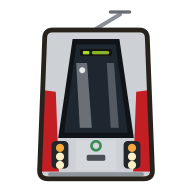
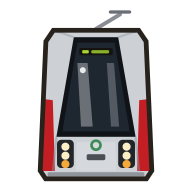
Face fixes: recognizable classic 15T/14T redrawn from photos, chibi 14T/KT8D5 red side panels removed
- classic/15t: body now tapers toward the roof (the raked nose), one huge
  curved black windscreen bulging to the body edges so the red reads as a
  brow/cap thinning down the A-pillars; silver mid-band with round headlight
  clusters and red bumper with white DRLs kept and tightened.
- classic/14t: angular faceted wedge silhouette (chamfered corners, no soft
  rounds), silver-dominant nose with slim red flank slivers, taller
  downward-widening black windscreen trapezoid, roof/skirt facet creases,
  amber indicators moved below the paired lenses per the reference photo.
- chibi/14t: removed the fictional red side panels; all-silver angular nose
  like the real Porsche-designed front.
- chibi/kt8d5: removed the red patches on the peeking articulated sections;
  they stay plain white with accordion pleats.

Sprites regenerated for the four changed faces only.

Changed region(s): [[0.1875, 0.125, 0.8125, 0.9688], [0.625, 0.375, 0.6562, 0.4375]]

diff --git a/src/components/tram/faces/packs/classic/14t.tsx b/src/components/tram/faces/packs/classic/14t.tsx
@@ -1,9 +1,10 @@
-// Škoda 14T "Elektra" — the Porsche-designed WEDGE. Angular SILVER cab, tall
-// flat raked windscreen in a black frame that WIDENS DOWNWARD (trapezoid),
-// green LED route display up in the glass, vertical clusters of small round
-// lens lights recessed in dark niches low at each corner (amber on top), red
-// body flanks peeking past the silver nose, single-arm pantograph.
-// Expression: sharp, faceted, sporty.
+// Škoda 14T "Elektra" — the Porsche-designed WEDGE. Faceted angular silhouette
+// (straight chamfered corners, no soft rounds), SILVER-dominant cab, tall flat
+// raked windscreen in a black frame that WIDENS DOWNWARD (trapezoid), green
+// LED route display up in the glass, vertical clusters of small round lens
+// lights recessed in dark niches low at each corner (amber below), slim RED
+// body flanks peeking past the silver nose at the edges, single-arm
+// pantograph. Expression: sharp, faceted, sporty.
 import Svg, { Circle, Line, Path, Rect } from 'react-native-svg';
 
 import { P, VB, type FaceProps } from './palette';
@@ -11,8 +12,9 @@ import { P, VB, type FaceProps } from './palette';
 const MASK = '#101317';
 const NICHE = '#22262B';
 
+// Angular wedge: chamfered roof corners, straight flanks, chamfered base.
 const BODY =
-  'M13.2 56.8 L14.9 12.6 Q15 10 17.6 10 L46.4 10 Q49 10 49.1 12.6 L50.8 56.8 Q50.9 59.6 47.9 59.6 L16.1 59.6 Q13.1 59.6 13.2 56.8 Z';
+  'M13.4 56.9 L15.3 13.8 L17.8 10.1 L46.2 10.1 L48.7 13.8 L50.6 56.9 L48.8 59.6 L15.2 59.6 Z';
 
 export function Face({ size = 64 }: FaceProps) {
   return (
@@ -23,36 +25,42 @@ export function Face({ size = 64 }: FaceProps) {
       {/* angular SILVER wedge body */}
       <Path d={BODY} fill="#CDD1D6" />
       {/* soft sheen across the lower silver nose */}
-      <Path d="M25.5 46.8 L38.5 46.8 L38.9 56.8 L25.1 56.8 Z" fill="#DBDEE2" opacity={0.5} />
-      {/* RED body flanks peeking past the silver cab at each edge */}
-      <Path d="M14.1 30 L18.6 30.6 L19.6 57.2 L13.6 57.2 Z" fill={P.pidRed} />
-      <Path d="M49.9 30 L45.4 30.6 L44.4 57.2 L50.4 57.2 Z" fill={P.pidRed} />
+      <Path d="M25.6 47.4 L38.4 47.4 L38.8 56.9 L25.2 56.9 Z" fill="#DDE0E4" opacity={0.55} />
+      {/* slim RED body flanks peeking past the silver cab at each edge */}
+      <Path d="M14.35 33 L17.6 33.4 L18.3 57 L13.55 57 Z" fill={P.pidRed} />
+      <Path d="M49.65 33 L46.4 33.4 L45.7 57 L50.45 57 Z" fill={P.pidRed} />
       {/* black windscreen frame — trapezoid that WIDENS DOWNWARD */}
-      <Path d="M24.2 13 L39.8 13 L44.6 46 L19.4 46 Z" fill={MASK} />
+      <Path d="M24.6 12.4 L39.4 12.4 L45.2 45.6 L18.8 45.6 Z" fill={MASK} />
       {/* raked glass inside the frame */}
-      <Path d="M25.5 14.8 L38.5 14.8 L42.6 44.2 L21.4 44.2 Z" fill={P.glass} />
+      <Path d="M25.8 14.2 L38.2 14.2 L43.2 43.8 L20.8 43.8 Z" fill={P.glass} />
       {/* green LED route display up in the glass */}
-      <Rect x={26.6} y={16.4} width={10.8} height={2.2} rx={0.6} fill="#15130F" />
-      <Rect x={27.6} y={17} width={2.2} height={1.1} rx={0.3} fill={P.ledGreen} />
-      <Rect x={30.6} y={17} width={5.8} height={1.1} rx={0.5} fill={P.ledGreen} opacity={0.8} />
+      <Rect x={26.4} y={16} width={11.2} height={2.4} rx={0.6} fill="#15130F" />
+      <Rect x={27.4} y={16.7} width={2.2} height={1.1} rx={0.3} fill={P.ledGreen} />
+      <Rect x={30.4} y={16.7} width={6} height={1.1} rx={0.5} fill={P.ledGreen} opacity={0.8} />
       {/* tilted wedge glints */}
-      <Path d="M25.4 21 L29 21 L30.6 42.6 L26.6 42.6 Z" fill={P.glint} opacity={0.34} />
-      <Path d="M35.6 21 L38 21 L39.6 42.6 L36.9 42.6 Z" fill={P.glint} opacity={0.24} />
-      <Circle cx={27.4} cy={23.4} r={1} fill={P.glint} opacity={0.85} />
-      {/* recessed dark light niches, vertical 3-lens stacks (amber on top) */}
-      <Rect x={17.2} y={47} width={5.6} height={9.2} rx={1.4} fill={NICHE} />
-      <Rect x={41.2} y={47} width={5.6} height={9.2} rx={1.4} fill={NICHE} />
-      <Circle cx={20} cy={49.3} r={1.35} fill={P.amber} />
-      <Circle cx={20} cy={52.2} r={1.35} fill={P.warmLens} />
-      <Circle cx={20} cy={55} r={1.35} fill={P.warmLens} />
-      <Circle cx={44} cy={49.3} r={1.35} fill={P.amber} />
-      <Circle cx={44} cy={52.2} r={1.35} fill={P.warmLens} />
-      <Circle cx={44} cy={55} r={1.35} fill={P.warmLens} />
+      <Path d="M25.8 21 L29.2 21 L30.9 42.2 L27 42.2 Z" fill={P.glint} opacity={0.34} />
+      <Path d="M35.6 21 L38 21 L39.7 42.2 L37 42.2 Z" fill={P.glint} opacity={0.24} />
+      <Circle cx={27.6} cy={23.4} r={1} fill={P.glint} opacity={0.85} />
+      {/* facet crease lines running from the windscreen corners to the skirt */}
+      <Line x1={18.8} y1={45.6} x2={17.7} y2={57} stroke={P.silverDark} strokeWidth={0.8} opacity={0.5} />
+      <Line x1={45.2} y1={45.6} x2={46.3} y2={57} stroke={P.silverDark} strokeWidth={0.8} opacity={0.5} />
+      {/* roof chamfer creases echoing the faceted cab */}
+      <Line x1={24.6} y1={12.4} x2={17.8} y2={10.1} stroke={P.silverDark} strokeWidth={0.7} opacity={0.45} />
+      <Line x1={39.4} y1={12.4} x2={46.2} y2={10.1} stroke={P.silverDark} strokeWidth={0.7} opacity={0.45} />
+      {/* recessed dark light niches, vertical lens stacks (amber below) */}
+      <Rect x={19} y={46.6} width={5.6} height={9.4} rx={1.4} fill={NICHE} />
+      <Rect x={39.4} y={46.6} width={5.6} height={9.4} rx={1.4} fill={NICHE} />
+      <Circle cx={21.8} cy={48.9} r={1.35} fill={P.warmLens} />
+      <Circle cx={21.8} cy={51.9} r={1.35} fill={P.warmLens} />
+      <Circle cx={21.8} cy={54.7} r={1.35} fill={P.amber} />
+      <Circle cx={42.2} cy={48.9} r={1.35} fill={P.warmLens} />
+      <Circle cx={42.2} cy={51.9} r={1.35} fill={P.warmLens} />
+      <Circle cx={42.2} cy={54.7} r={1.35} fill={P.amber} />
       {/* Škoda roundel + charcoal fleet plate under the glass */}
-      <Circle cx={32} cy={48.6} r={1.5} fill="none" stroke="#3D8B57" strokeWidth={0.9} />
-      <Rect x={28.9} y={51.6} width={6.2} height={2} rx={0.5} fill="#4A4F55" />
+      <Circle cx={32} cy={48.4} r={1.5} fill="none" stroke="#3D8B57" strokeWidth={0.9} />
+      <Rect x={28.9} y={51.4} width={6.2} height={2} rx={0.5} fill="#4A4F55" />
       {/* grey skirt line at the rails */}
-      <Rect x={16} y={57.4} width={32} height={1.4} rx={0.7} fill={P.silverDark} />
+      <Rect x={15.8} y={57.4} width={32.4} height={1.4} rx={0.7} fill={P.silverDark} />
       {/* crisp silhouette re-stroked */}
       <Path d={BODY} fill="none" stroke={P.outline} strokeWidth={1.6} />
     </Svg>

diff --git a/src/components/tram/faces/packs/classic/15t.tsx b/src/components/tram/faces/packs/classic/15t.tsx
@@ -1,6 +1,7 @@
-// Škoda 15T ForCity Alfa — the sloped face with the silver light-band. A RED
-// brow/cap flows over the roof and down the A-pillars around one HUGE raked
-// black curved windscreen (orange LED route display inside its top). Below the
+// Škoda 15T ForCity Alfa — the strongly RAKED face. The body tapers toward the
+// roof (windscreen leans back), one HUGE curved black windscreen bulges out to
+// the body edges so the RED reads as a brow/cap over the roof that thins down
+// the A-pillars (orange LED route display inside the glass top). Below the
 // glass: a SILVER horizontal mid-band carrying clusters of ROUND headlights at
 // each side; below that, a RED bumper with white DRL pills. Single-arm
 // pantograph. Expression: the modern workhorse, calm and wide-eyed.
@@ -10,8 +11,13 @@ import { P, VB, type FaceProps } from './palette';
 
 const MASK = '#14181D';
 
+// Trapezoid silhouette — narrow rounded roof, wide base = the raked nose.
 const BODY =
-  'M12.8 56.5 L13.6 16.5 Q13.8 10.5 19.8 10.5 L44.2 10.5 Q50.2 10.5 50.4 16.5 L51.2 56.5 Q51.3 59.6 48 59.6 L16 59.6 Q12.7 59.6 12.8 56.5 Z';
+  'M12.6 56.6 L14.9 15.8 Q15.6 10.2 21.2 10.2 L42.8 10.2 Q48.4 10.2 49.1 15.8 L51.4 56.6 Q51.5 59.6 48.2 59.6 L15.8 59.6 Q12.5 59.6 12.6 56.6 Z';
+
+// Curved windscreen: narrow at the top, sides bow outward, flat sill.
+const GLASS =
+  'M16.1 42.4 Q15.1 27 17.9 18.2 Q19.2 13.6 24.4 13.6 L39.6 13.6 Q44.8 13.6 46.1 18.2 Q48.9 27 47.9 42.4 Z';
 
 export function Face({ size = 64 }: FaceProps) {
   return (
@@ -19,38 +25,35 @@ export function Face({ size = 64 }: FaceProps) {
       {/* single-arm pantograph */}
       <Path d="M32 10 L40 5" stroke="#8A8E94" strokeWidth={1.3} strokeLinecap="round" fill="none" />
       <Line x1={36.8} y1={4.2} x2={43.2} y2={4.2} stroke="#6B6F75" strokeWidth={1.1} strokeLinecap="round" />
-      {/* body — RED cap, brow and pillars (base coat) */}
+      {/* body — RED cap/brow base coat (shows as brow + thin pillars + bumper) */}
       <Path d={BODY} fill={P.pidRed} />
-      {/* HUGE raked curved black windscreen, inset so red frames it */}
-      <Path
-        d="M17.2 40.6 L17.8 19.4 Q18 14.2 23.2 14.2 L40.8 14.2 Q46 14.2 46.2 19.4 L46.8 40.6 Q46.8 42.2 45.2 42.2 L18.8 42.2 Q17.2 42.2 17.2 40.6 Z"
-        fill={MASK}
-      />
+      {/* HUGE raked curved black windscreen, bulging to the body edges */}
+      <Path d={GLASS} fill={MASK} />
       {/* orange LED route display inside the top of the glass */}
-      <Rect x={21.4} y={16.2} width={3.4} height={2.2} rx={0.5} fill={P.ledOrange} />
-      <Rect x={26.4} y={16.5} width={14.2} height={1.7} rx={0.8} fill={P.ledOrange} opacity={0.8} />
-      {/* deep curved glass sheen */}
-      <Rect x={22} y={20.4} width={6.6} height={19.6} rx={3.3} fill={P.glint} opacity={0.28} />
-      <Rect x={37.2} y={20.4} width={4.6} height={19.6} rx={2.3} fill={P.glint} opacity={0.18} />
-      <Circle cx={25.4} cy={23.2} r={1.1} fill={P.glint} opacity={0.8} />
+      <Rect x={22.4} y={16.2} width={3.2} height={2.2} rx={0.5} fill={P.ledOrange} />
+      <Rect x={27.2} y={16.6} width={13} height={1.6} rx={0.8} fill={P.ledOrange} opacity={0.8} />
+      {/* curved glass sheen following the bowed sides */}
+      <Path d="M22.4 20.6 Q21 31 22.9 40.6 L26.7 40.6 Q25.1 31 26.5 20.6 Z" fill={P.glint} opacity={0.26} />
+      <Path d="M37.7 20.6 Q38.9 30 38.2 40.6 L41.3 40.6 Q42.5 30 40.7 20.6 Z" fill={P.glint} opacity={0.16} />
+      <Circle cx={25.2} cy={23} r={1.1} fill={P.glint} opacity={0.8} />
       {/* SILVER horizontal mid-band below the glass — the 15T signature */}
-      <Rect x={13.1} y={43} width={37.8} height={7} fill={P.chrome} />
+      <Path d="M13.35 43.2 L50.65 43.2 L51 49.8 L13 49.8 Z" fill={P.chrome} />
       {/* round headlight clusters set into the band at each side */}
-      <Circle cx={18.6} cy={46.5} r={1.9} fill={P.warmLens} stroke={P.charcoal} strokeWidth={0.9} />
-      <Circle cx={23.2} cy={46.5} r={1.9} fill={P.warmLens} stroke={P.charcoal} strokeWidth={0.9} />
-      <Circle cx={26.9} cy={46.5} r={1.15} fill={P.amber} />
-      <Circle cx={45.4} cy={46.5} r={1.9} fill={P.warmLens} stroke={P.charcoal} strokeWidth={0.9} />
-      <Circle cx={40.8} cy={46.5} r={1.9} fill={P.warmLens} stroke={P.charcoal} strokeWidth={0.9} />
-      <Circle cx={37.1} cy={46.5} r={1.15} fill={P.amber} />
+      <Circle cx={18.4} cy={46.5} r={1.9} fill={P.warmLens} stroke={P.charcoal} strokeWidth={0.9} />
+      <Circle cx={23} cy={46.5} r={1.9} fill={P.warmLens} stroke={P.charcoal} strokeWidth={0.9} />
+      <Circle cx={26.6} cy={46.5} r={1.1} fill={P.amber} />
+      <Circle cx={45.6} cy={46.5} r={1.9} fill={P.warmLens} stroke={P.charcoal} strokeWidth={0.9} />
+      <Circle cx={41} cy={46.5} r={1.9} fill={P.warmLens} stroke={P.charcoal} strokeWidth={0.9} />
+      <Circle cx={37.4} cy={46.5} r={1.1} fill={P.amber} />
       {/* Škoda roundel centered in the band */}
       <Circle cx={32} cy={46.5} r={1.5} fill="none" stroke="#3D8B57" strokeWidth={0.9} />
       {/* RED bumper below with white DRL pills */}
-      <Rect x={16.4} y={52.6} width={7.2} height={2.2} rx={1.1} fill="#FFFFFF" />
-      <Rect x={40.4} y={52.6} width={7.2} height={2.2} rx={1.1} fill="#FFFFFF" />
+      <Rect x={16.8} y={52.4} width={7} height={2.2} rx={1.1} fill="#FFFFFF" />
+      <Rect x={40.2} y={52.4} width={7} height={2.2} rx={1.1} fill="#FFFFFF" />
       {/* white fleet number chip centered on the red bumper */}
-      <Rect x={28.9} y={52.7} width={6.2} height={2} rx={0.5} fill="#FFFFFF" opacity={0.92} />
+      <Rect x={28.9} y={52.5} width={6.2} height={2} rx={0.5} fill="#FFFFFF" opacity={0.92} />
       {/* dark skirt shadow at the rails */}
-      <Rect x={16} y={57.4} width={32} height={1.4} rx={0.7} fill={P.charcoal} />
+      <Rect x={15.5} y={57.4} width={33} height={1.4} rx={0.7} fill={P.charcoal} />
       {/* crisp silhouette re-stroked */}
       <Path d={BODY} fill="none" stroke={P.outline} strokeWidth={1.6} />
     </Svg>

diff --git a/src/components/tram/faces/packs/chibi/kt8d5.tsx b/src/components/tram/faces/packs/chibi/kt8d5.tsx
@@ -1,8 +1,9 @@
 // Chibi KT8D5 — the LONG boxy articulated one. Angular near-rectangular head
 // (no bun curves!), dark anthracite windscreen mask holding two square glass
 // eyes, red belt with the WHITE bumper stripe carrying two round headlights,
-// grey skirt — and two accordion-jointed body sections peeking out on BOTH
-// sides so it reads as the three-section giant. Yellow diamond pantograph.
+// grey skirt — and two accordion-jointed WHITE body sections peeking out on
+// BOTH sides so it reads as the three-section giant (kept plain white: red
+// patches out there muddied the face). Yellow diamond pantograph.
 import Svg, { Circle, Ellipse, Line, Path, Rect } from 'react-native-svg';
 
 import { C, VIEWBOX, type ChibiFaceProps } from './palette';
@@ -21,8 +22,6 @@ export function Face({ size = 64 }: ChibiFaceProps) {
       {/* trailing SECTIONS peeking on both sides — the articulated tell */}
       <Path d="M6.5 20 L12.5 20 L12.5 52 L8 52 C6.9 52 6.5 51.4 6.5 50.4 Z" fill={C.white} stroke={C.outline} strokeWidth={1.6} />
       <Path d="M57.5 20 L51.5 20 L51.5 52 L56 52 C57.1 52 57.5 51.4 57.5 50.4 Z" fill={C.white} stroke={C.outline} strokeWidth={1.6} />
-      <Path d="M6.5 33 L12.5 33 L12.5 46 L6.7 46 Z" fill={C.red} />
-      <Path d="M57.5 33 L51.5 33 L51.5 46 L57.3 46 Z" fill={C.red} />
       {/* accordion joint pleats */}
       <Line x1={9.6} y1={21.5} x2={9.6} y2={50.5} stroke={C.outline} strokeWidth={1.1} opacity={0.55} />
       <Line x1={54.4} y1={21.5} x2={54.4} y2={50.5} stroke={C.outline} strokeWidth={1.1} opacity={0.55} />

diff --git a/src/components/tram/faces/packs/chibi/14t.tsx b/src/components/tram/faces/packs/chibi/14t.tsx
@@ -1,9 +1,10 @@
 // Chibi 14T — the Porsche-designed angular WEDGE. Faceted SILVER cab with
 // straight chamfered sides (no bun curves), a tall BLACK windscreen frame
 // that WIDENS downward (trapezoid), green LED strip at its top, stacked pairs
-// of small round lights in dark recessed niches low on the mask, RED body
-// sections peeking behind the silver cab, single-arm pantograph, grey skirt.
-// Slightly googly eyes keep its lovable-oddball personality.
+// of small round lights in dark recessed niches low on the mask, single-arm
+// pantograph, grey skirt. The nose is all silver — like the real 14T front
+// (no red side panels). Slightly googly eyes keep its lovable-oddball
+// personality.
 import Svg, { Circle, Ellipse, Line, Path, Rect } from 'react-native-svg';
 
 import { C, VIEWBOX, type ChibiFaceProps } from './palette';
@@ -21,9 +22,6 @@ export function Face({ size = 64 }: ChibiFaceProps) {
     <Svg width={size} height={size} viewBox={VIEWBOX}>
       {/* ground shadow */}
       <Ellipse cx={32} cy={59.6} rx={23} ry={2.4} fill={C.shadow} />
-      {/* RED body sections peeking behind the silver cab — the red/silver tell */}
-      <Path d="M7.5 24 L12 24 L12 51 L9 51 C8 51 7.5 50.4 7.5 49.4 Z" fill={C.red} stroke={C.outline} strokeWidth={1.5} />
-      <Path d="M56.5 24 L52 24 L52 51 L55 51 C56 51 56.5 50.4 56.5 49.4 Z" fill={C.red} stroke={C.outline} strokeWidth={1.5} />
       {/* wheel-feet */}
       <Circle cx={21} cy={54} r={4} fill={C.dark} />
       <Circle cx={43} cy={54} r={4} fill={C.dark} />
